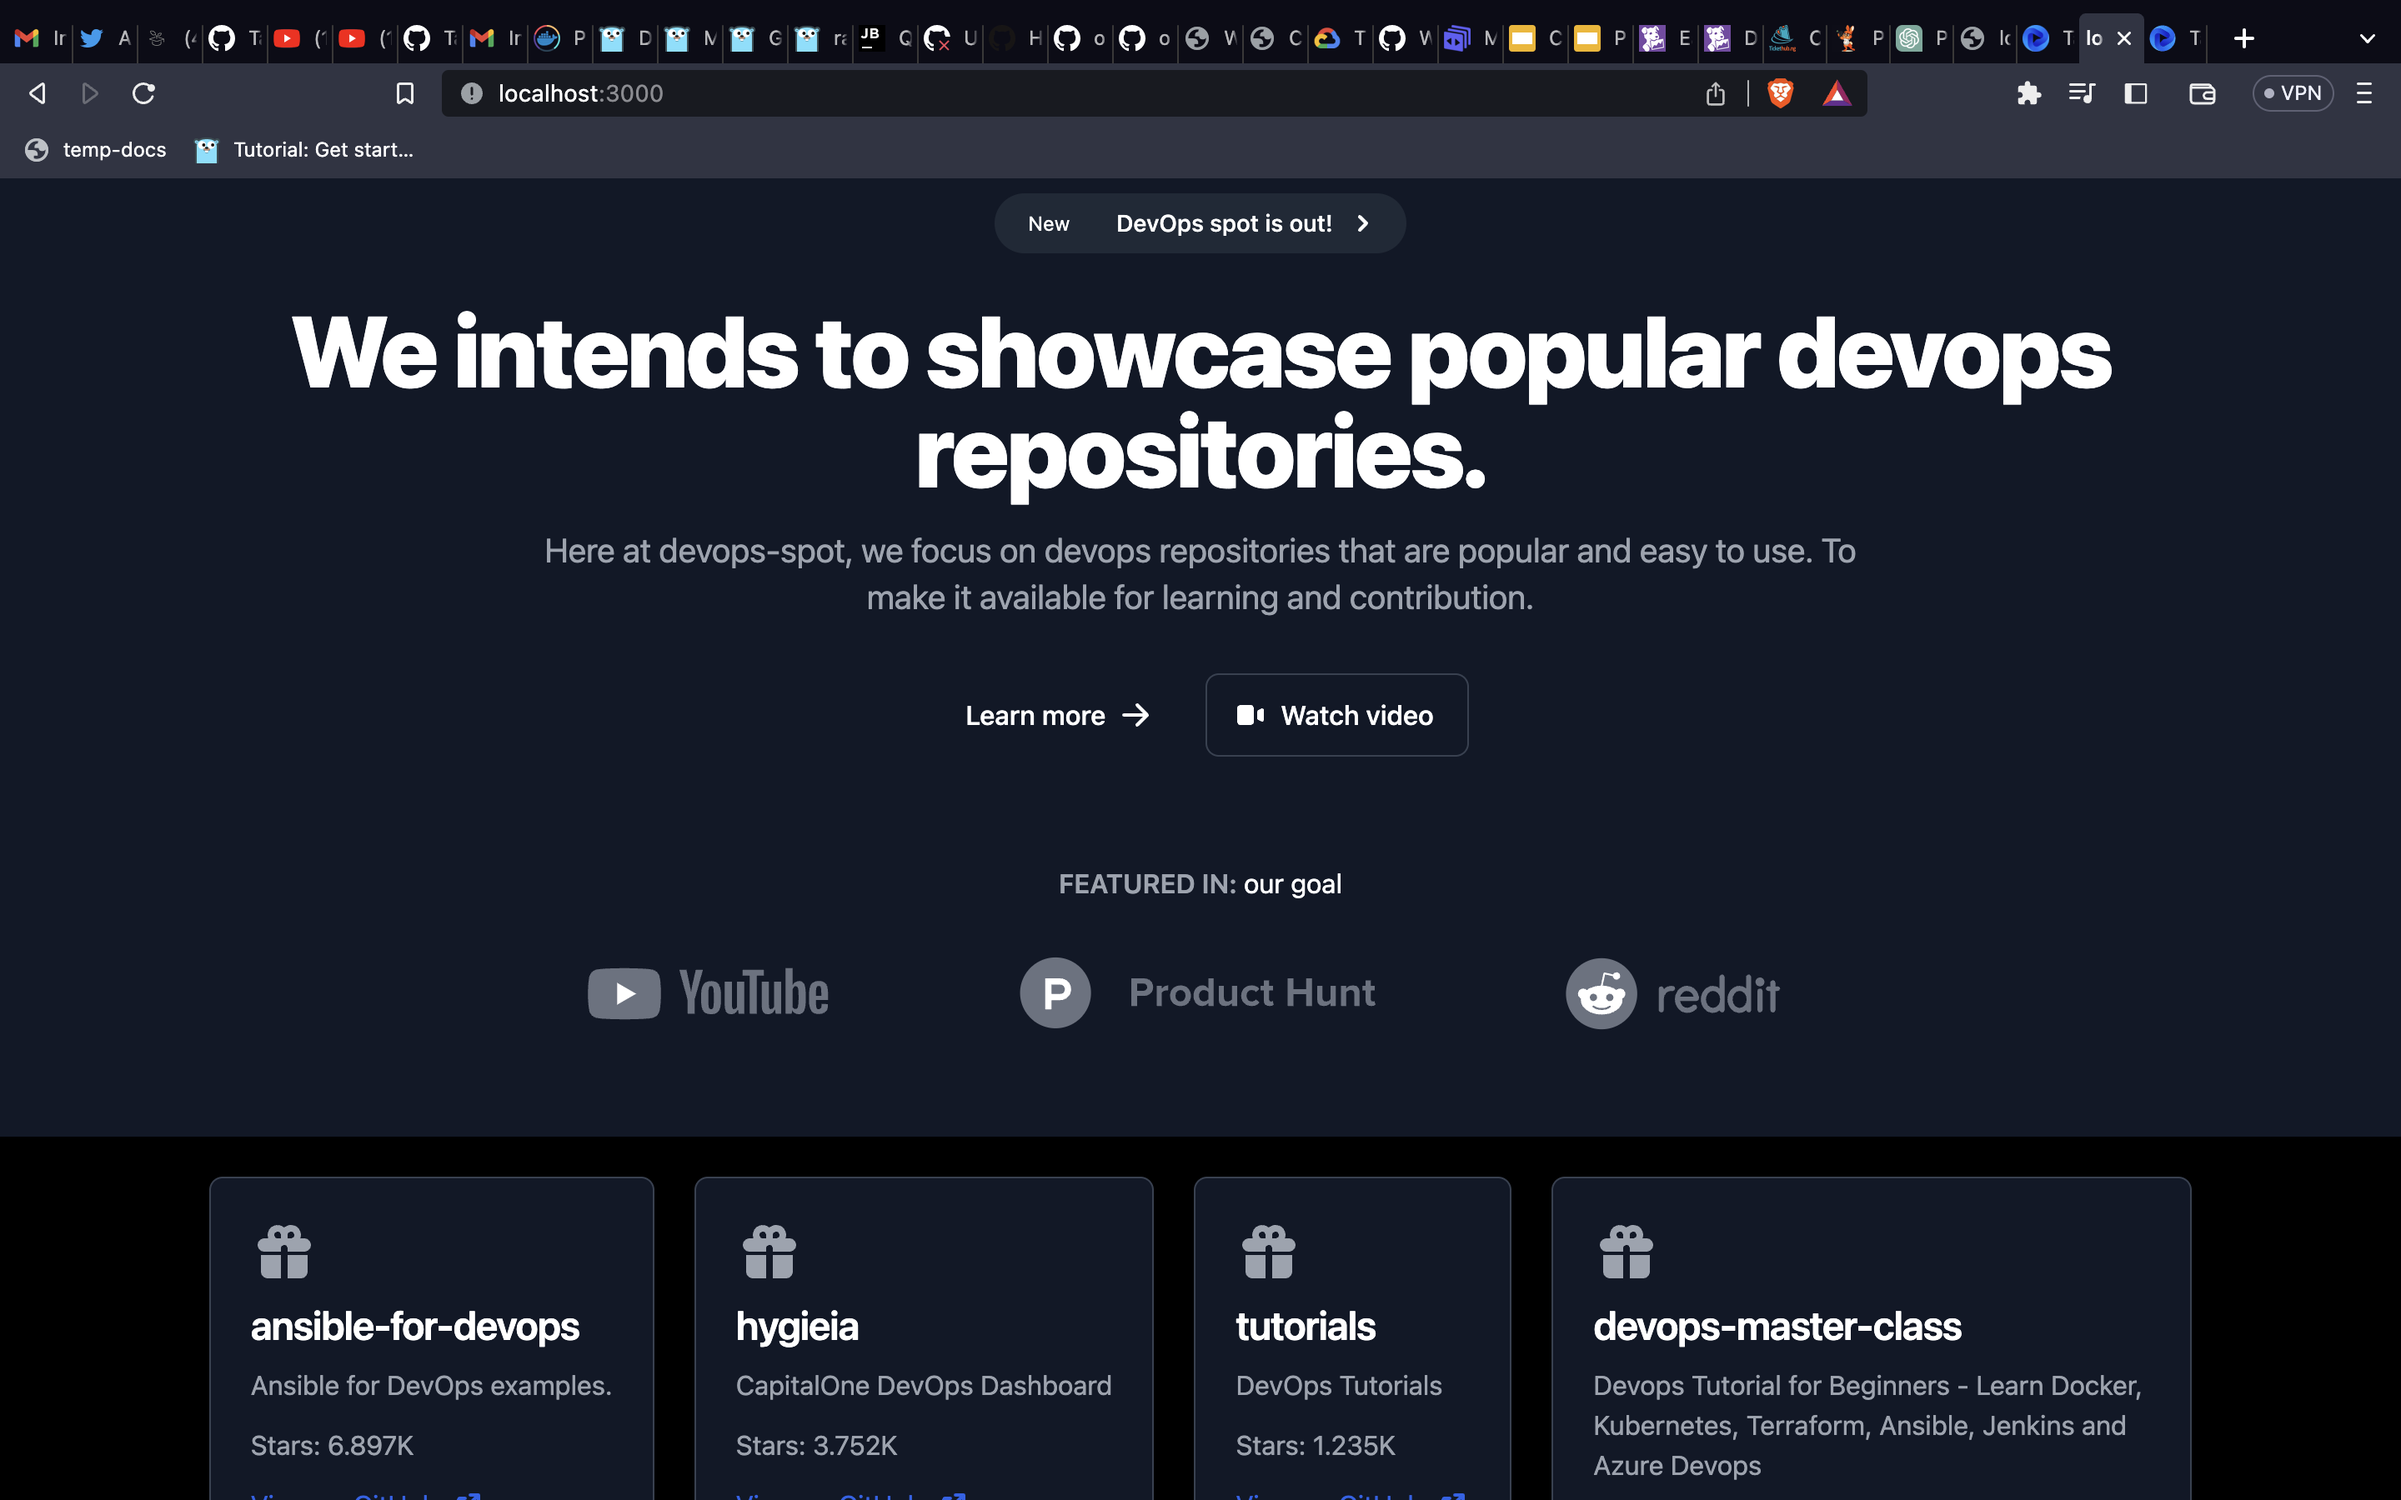
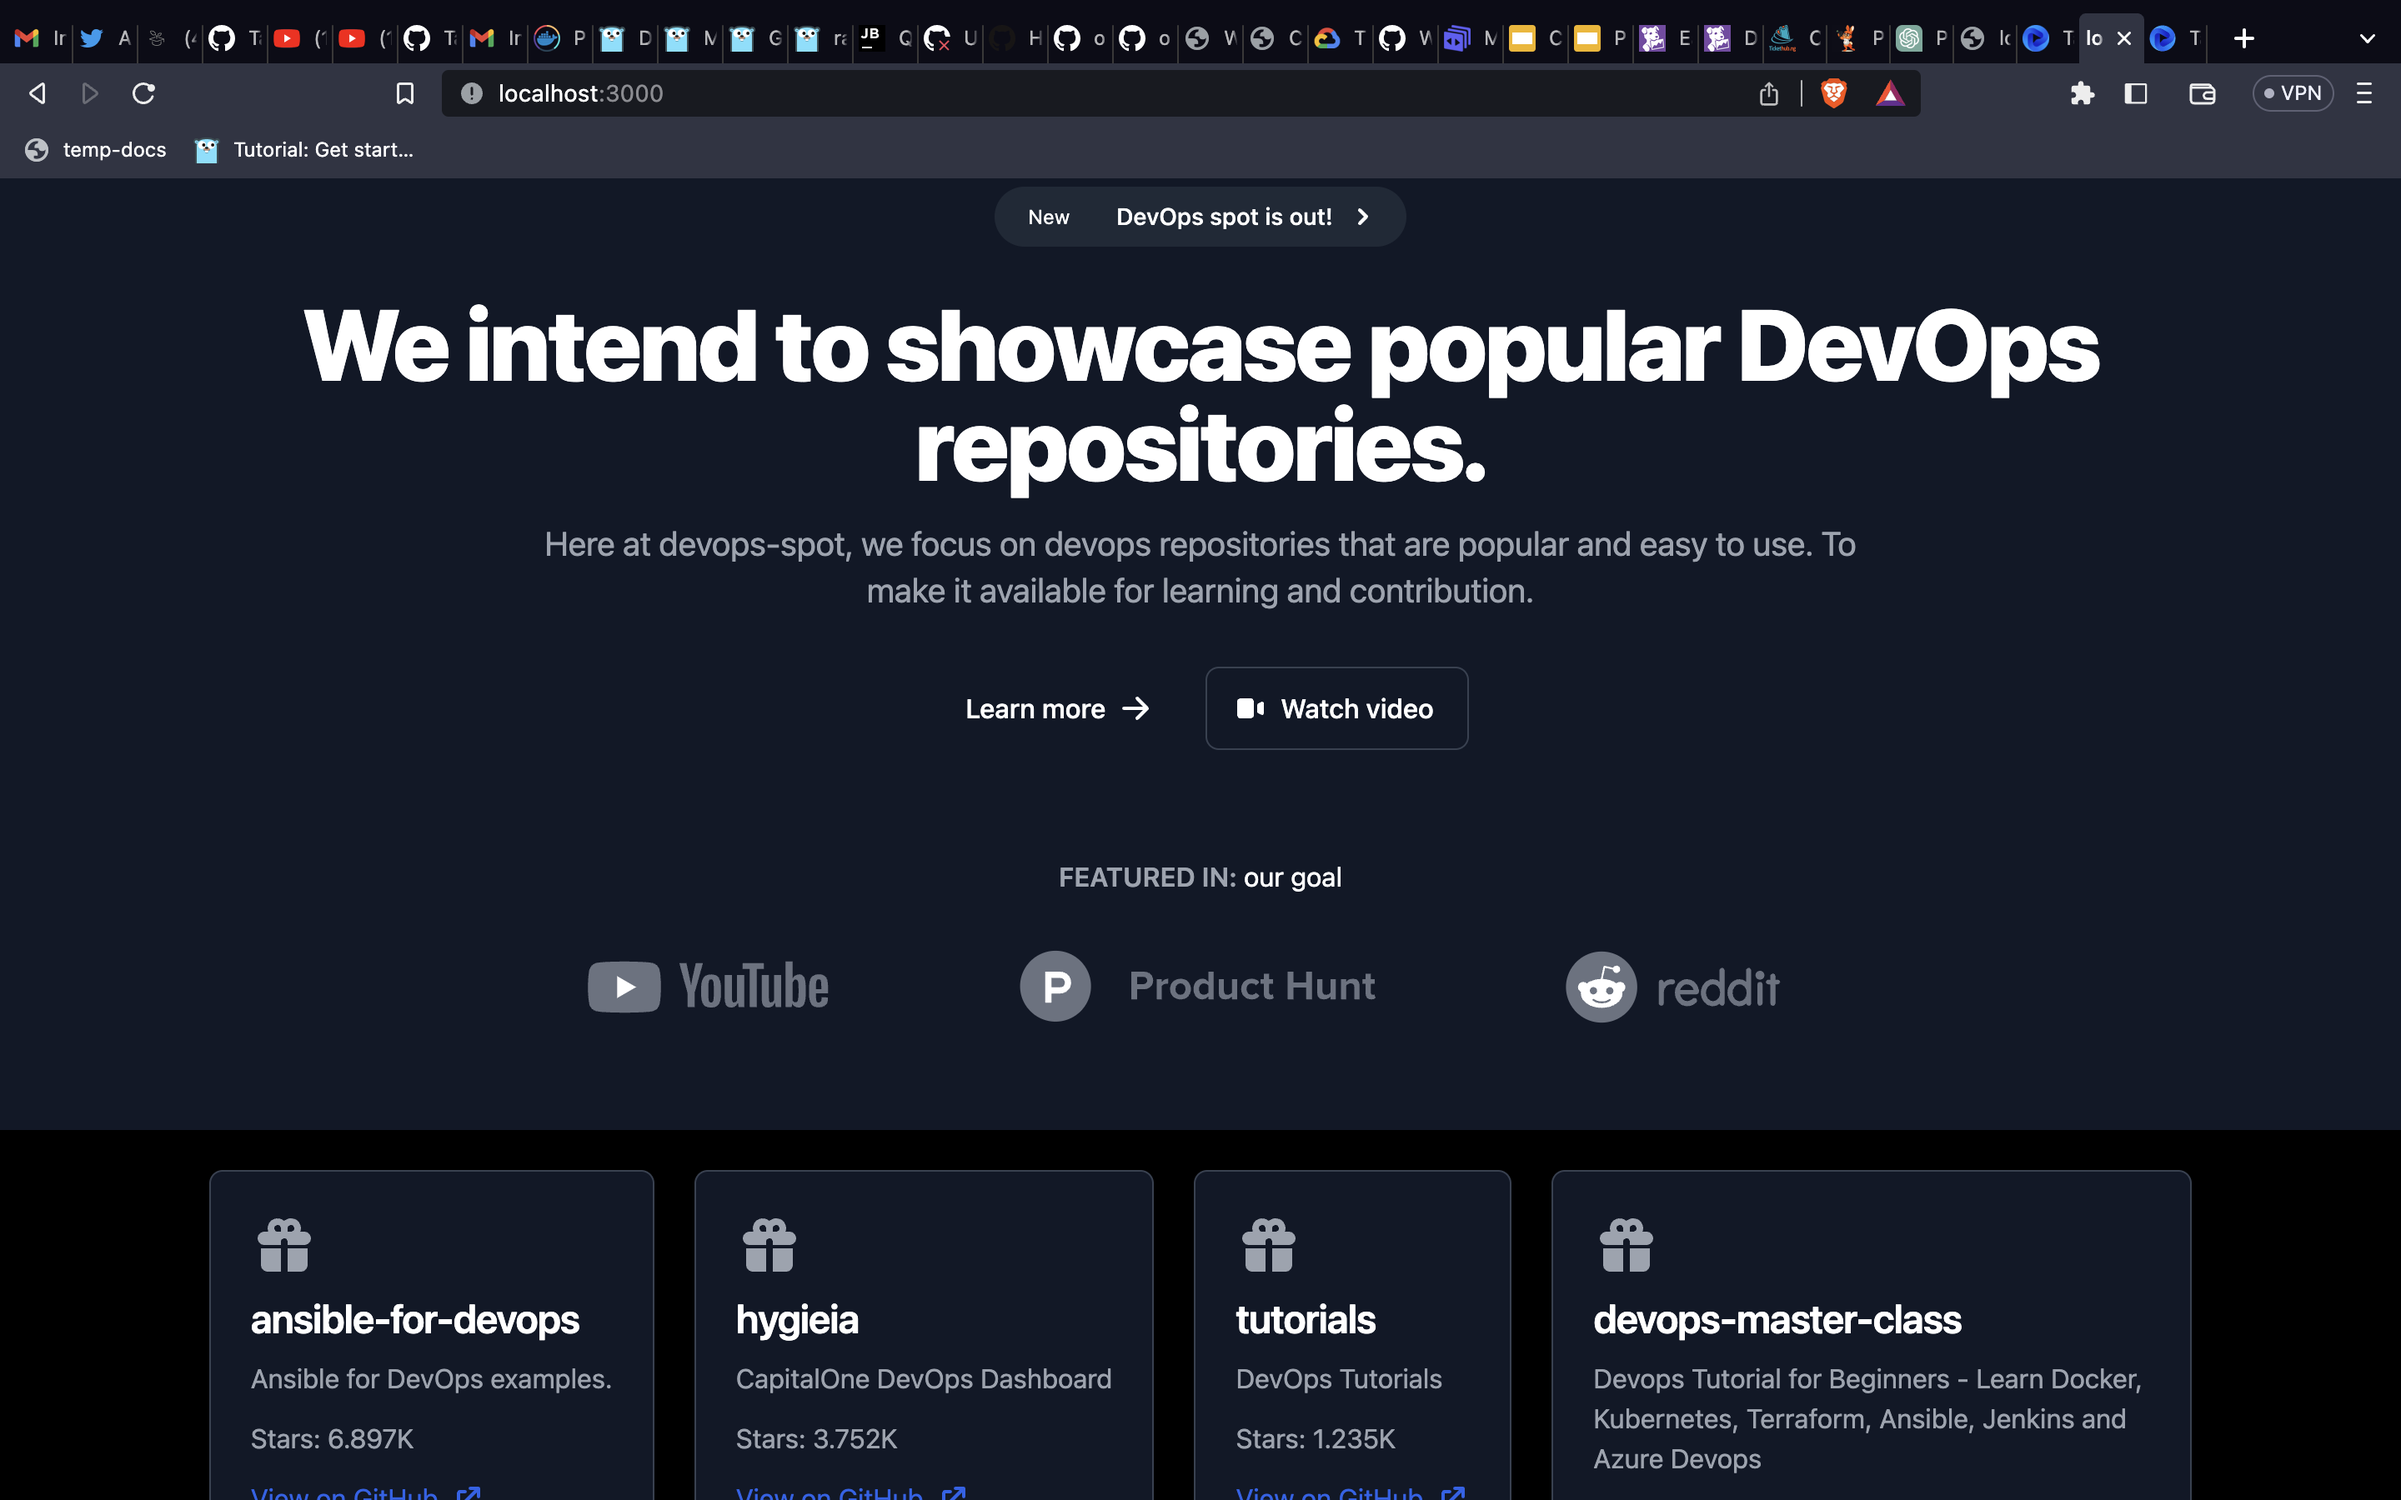
fixed header grammar

diff --git a/src/components/Header.js b/src/components/Header.js
@@ -9,7 +9,7 @@ export default function Header() {
                         <span className="text-xs bg-primary-600 rounded-full text-white px-4 py-1.5 mr-3">New</span> <span className="text-sm font-medium">DevOps spot is out!</span> 
                         <svg className="ml-2 w-5 h-5" fill="currentColor" viewBox="0 0 20 20" xmlns="http://www.w3.org/2000/svg"><path fill-rule="evenodd" d="M7.293 14.707a1 1 0 010-1.414L10.586 10 7.293 6.707a1 1 0 011.414-1.414l4 4a1 1 0 010 1.414l-4 4a1 1 0 01-1.414 0z" clip-rule="evenodd"></path></svg>
                     </a>
-                    <h1 className="mb-4 text-4xl font-extrabold tracking-tight leading-none text-gray-900 md:text-5xl lg:text-6xl dark:text-white">We intends to showcase popular devops repositories.</h1>
+                    <h1 className="mb-4 text-4xl font-extrabold tracking-tight leading-none text-gray-900 md:text-5xl lg:text-6xl dark:text-white">We intend to showcase popular DevOps repositories.</h1>
                     <p className="mb-8 text-lg font-normal text-gray-500 lg:text-xl sm:px-16 xl:px-48 dark:text-gray-400">Here at devops-spot,  we focus on devops repositories that are popular and easy to use. To make it available for learning and contribution.</p>
                     <div className="flex flex-col mb-8 lg:mb-16 space-y-4 sm:flex-row sm:justify-center sm:space-y-0 sm:space-x-4">
                         <a href="#" className="inline-flex justify-center items-center py-3 px-5 text-base font-medium text-center text-white rounded-lg bg-primary-700 hover:bg-primary-800 focus:ring-4 focus:ring-primary-300 dark:focus:ring-primary-900">
